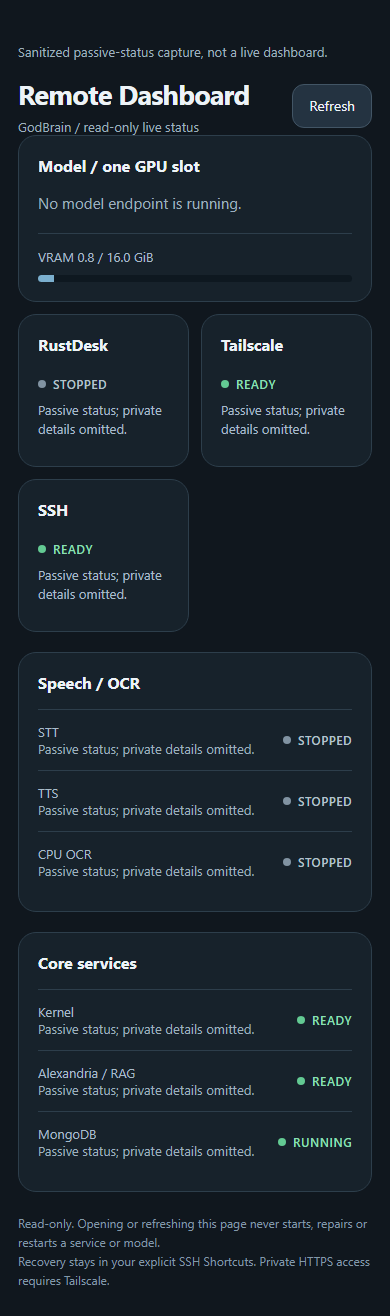
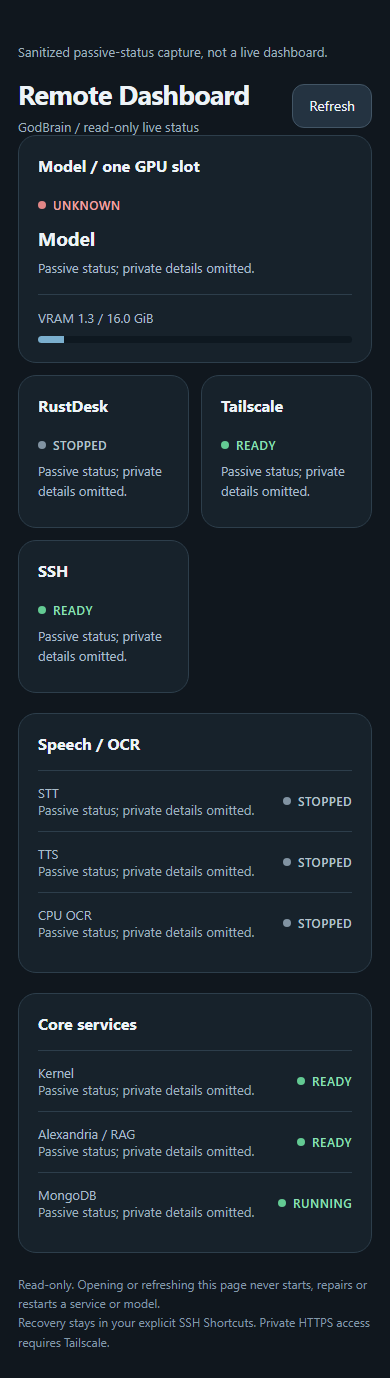
Refresh curated project showcase

diff --git a/projects/index.html b/projects/index.html
@@ -4,9 +4,9 @@
 <title>Project showcase | Autom8edIT</title><link rel="stylesheet" href="./gallery.css"><script src="../assets/js/theme.js" defer></script><script src="./gallery.js" defer></script></head>
 <body><header><a href="/">Autom8edIT</a><span>Project showcase</span><button type="button" data-theme-toggle aria-pressed="false">Flashbang mode</button></header>
 <main><p class="eyebrow">REAL PROJECTS / SOURCE-BOUND IMAGES</p><h1>Tools that work together.</h1>
-<p class="intro">Workstation control, Windows maintenance and a private remote overview. Explore the interfaces and their engineering context.</p>
+<p class="intro">A knowledge workspace, native workstation controls, Windows maintenance, AirPlay, monitor tools and private phone workflows. Explore the interfaces and their engineering context.</p>
 <p class="notice">Static, sanitized screenshots. These images expose no live controls, APIs or current readiness guarantees. Capture limitations are shown with each project.</p>
-<label class="search">Find a project<input id="search" type="search" placeholder="Command Center, Reclaim11, remote..."></label>
+<label class="search">Find a project<input id="search" type="search" placeholder="Workspace, AirPlay, monitor, remote..."></label>
 <p id="status" role="status">Loading the project catalog...</p><div id="projects" class="projects"></div></main>
 <dialog id="viewer" aria-labelledby="viewer-title"><button id="close" type="button" aria-label="Close image">Close</button><h2 id="viewer-title"></h2><img id="full-image" alt=""><p id="caption"></p></dialog>
 <footer>Local-first engineering. Images and catalog update together without regenerating the site.</footer></body></html>
